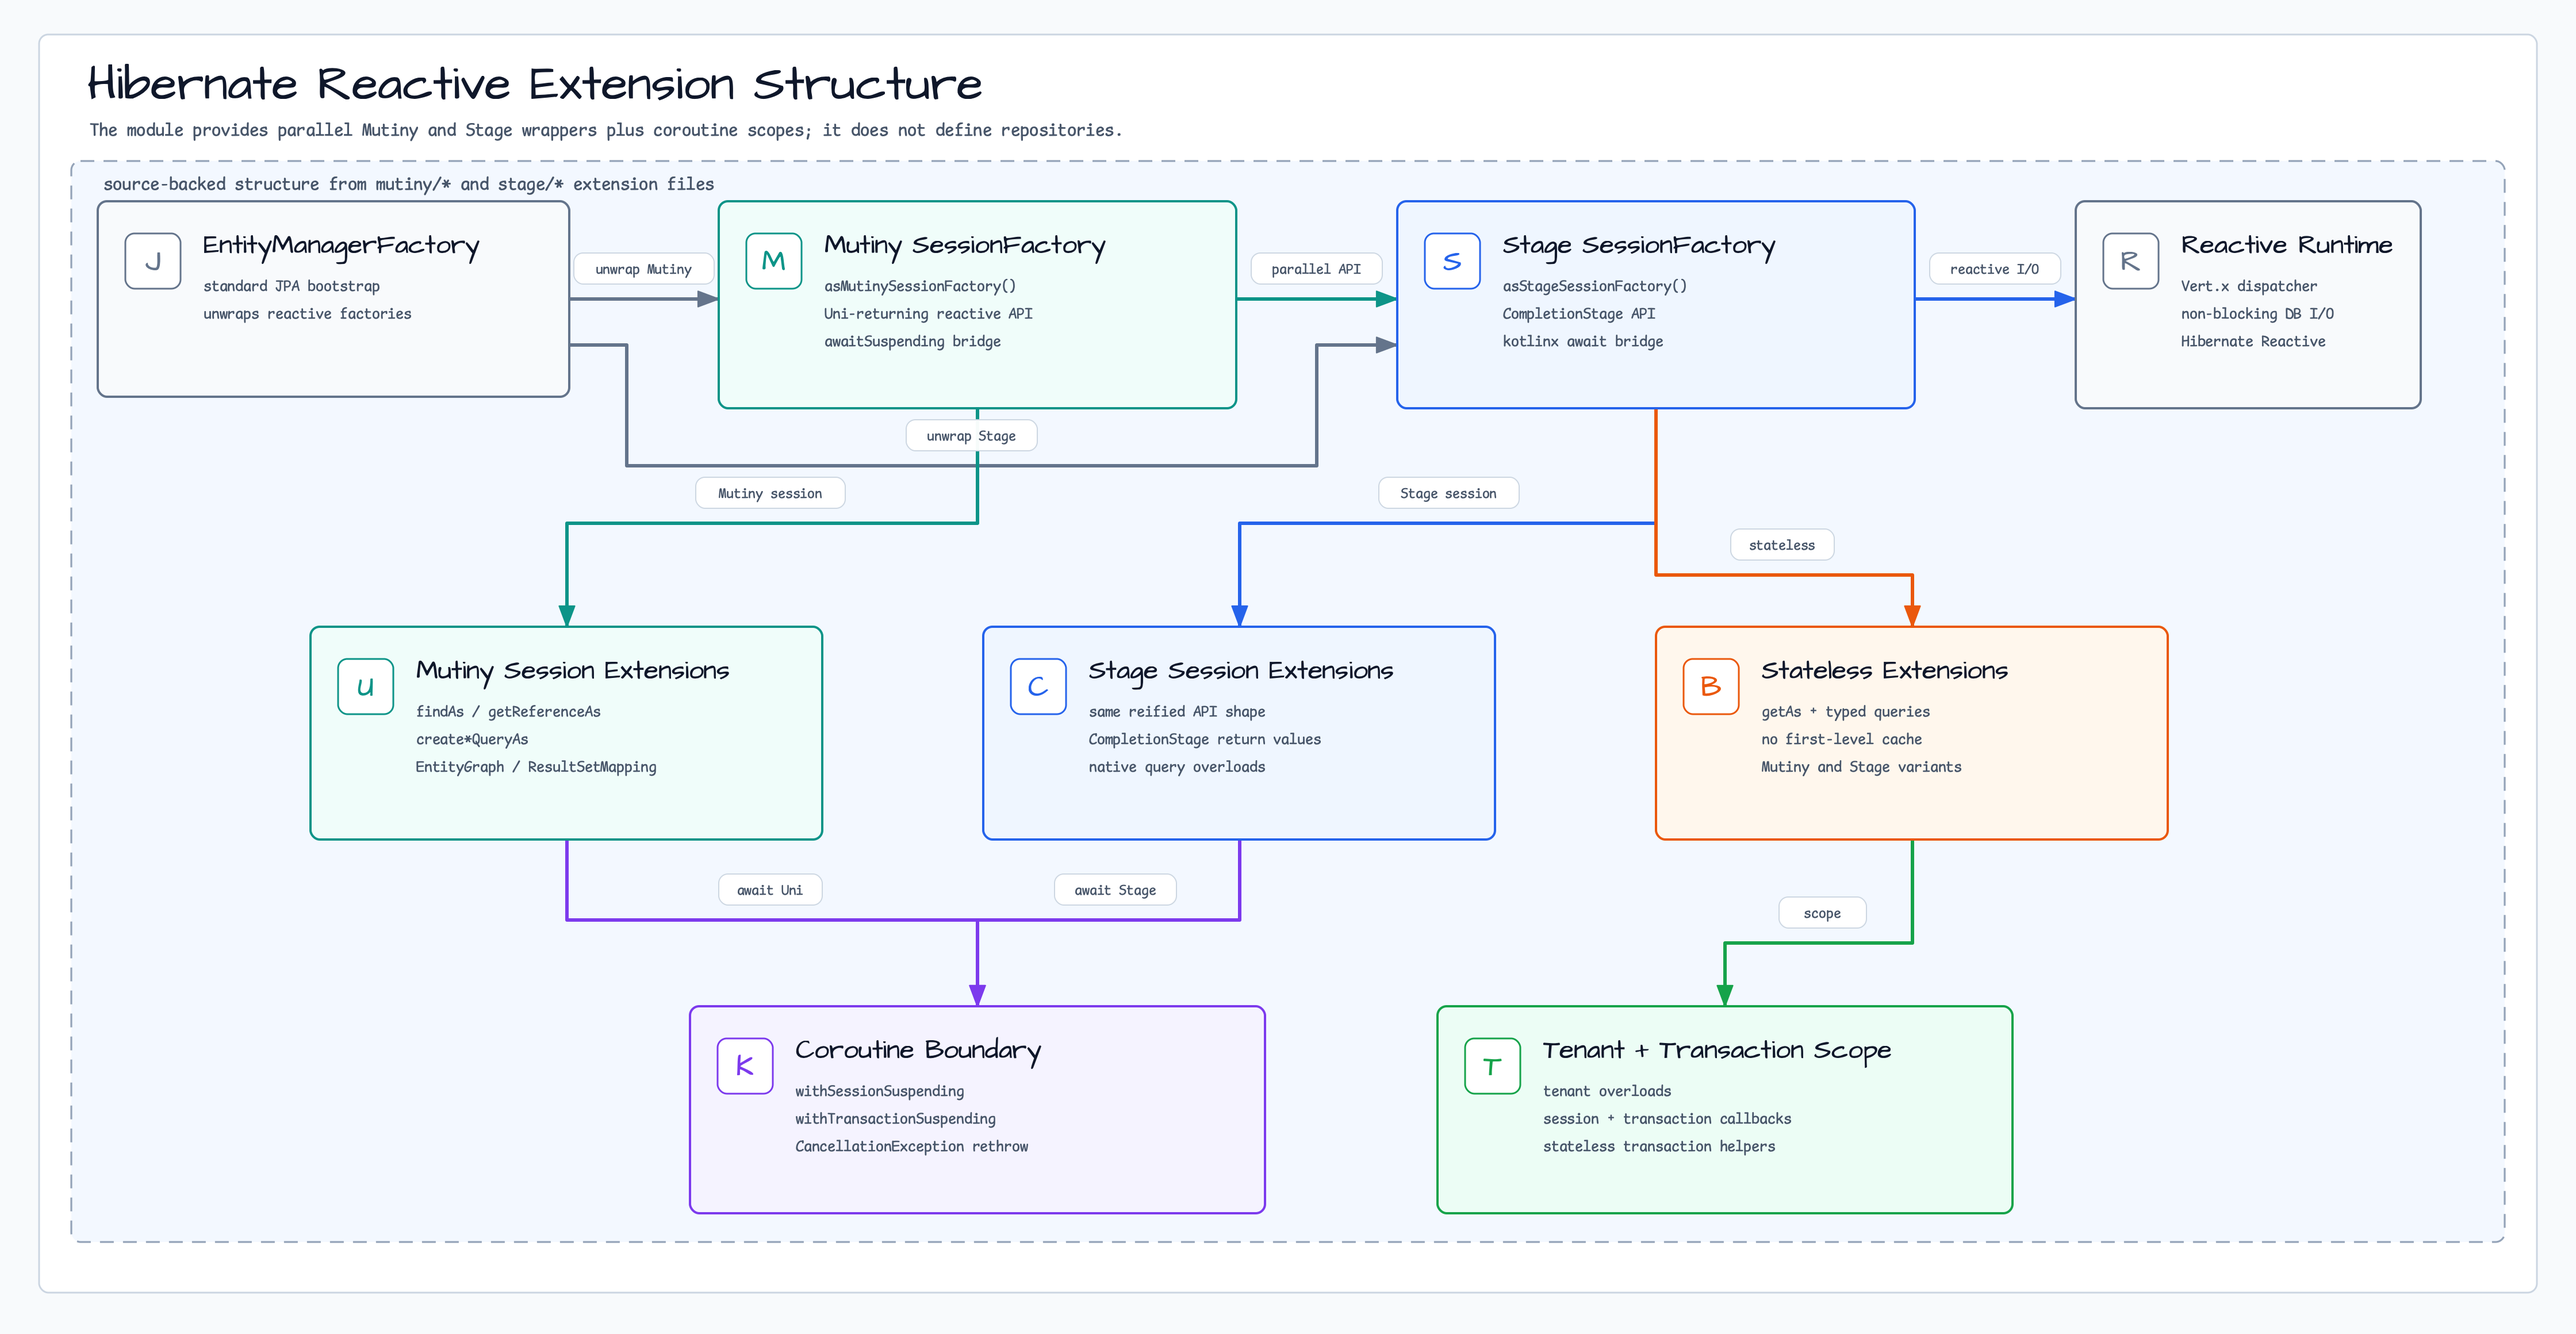
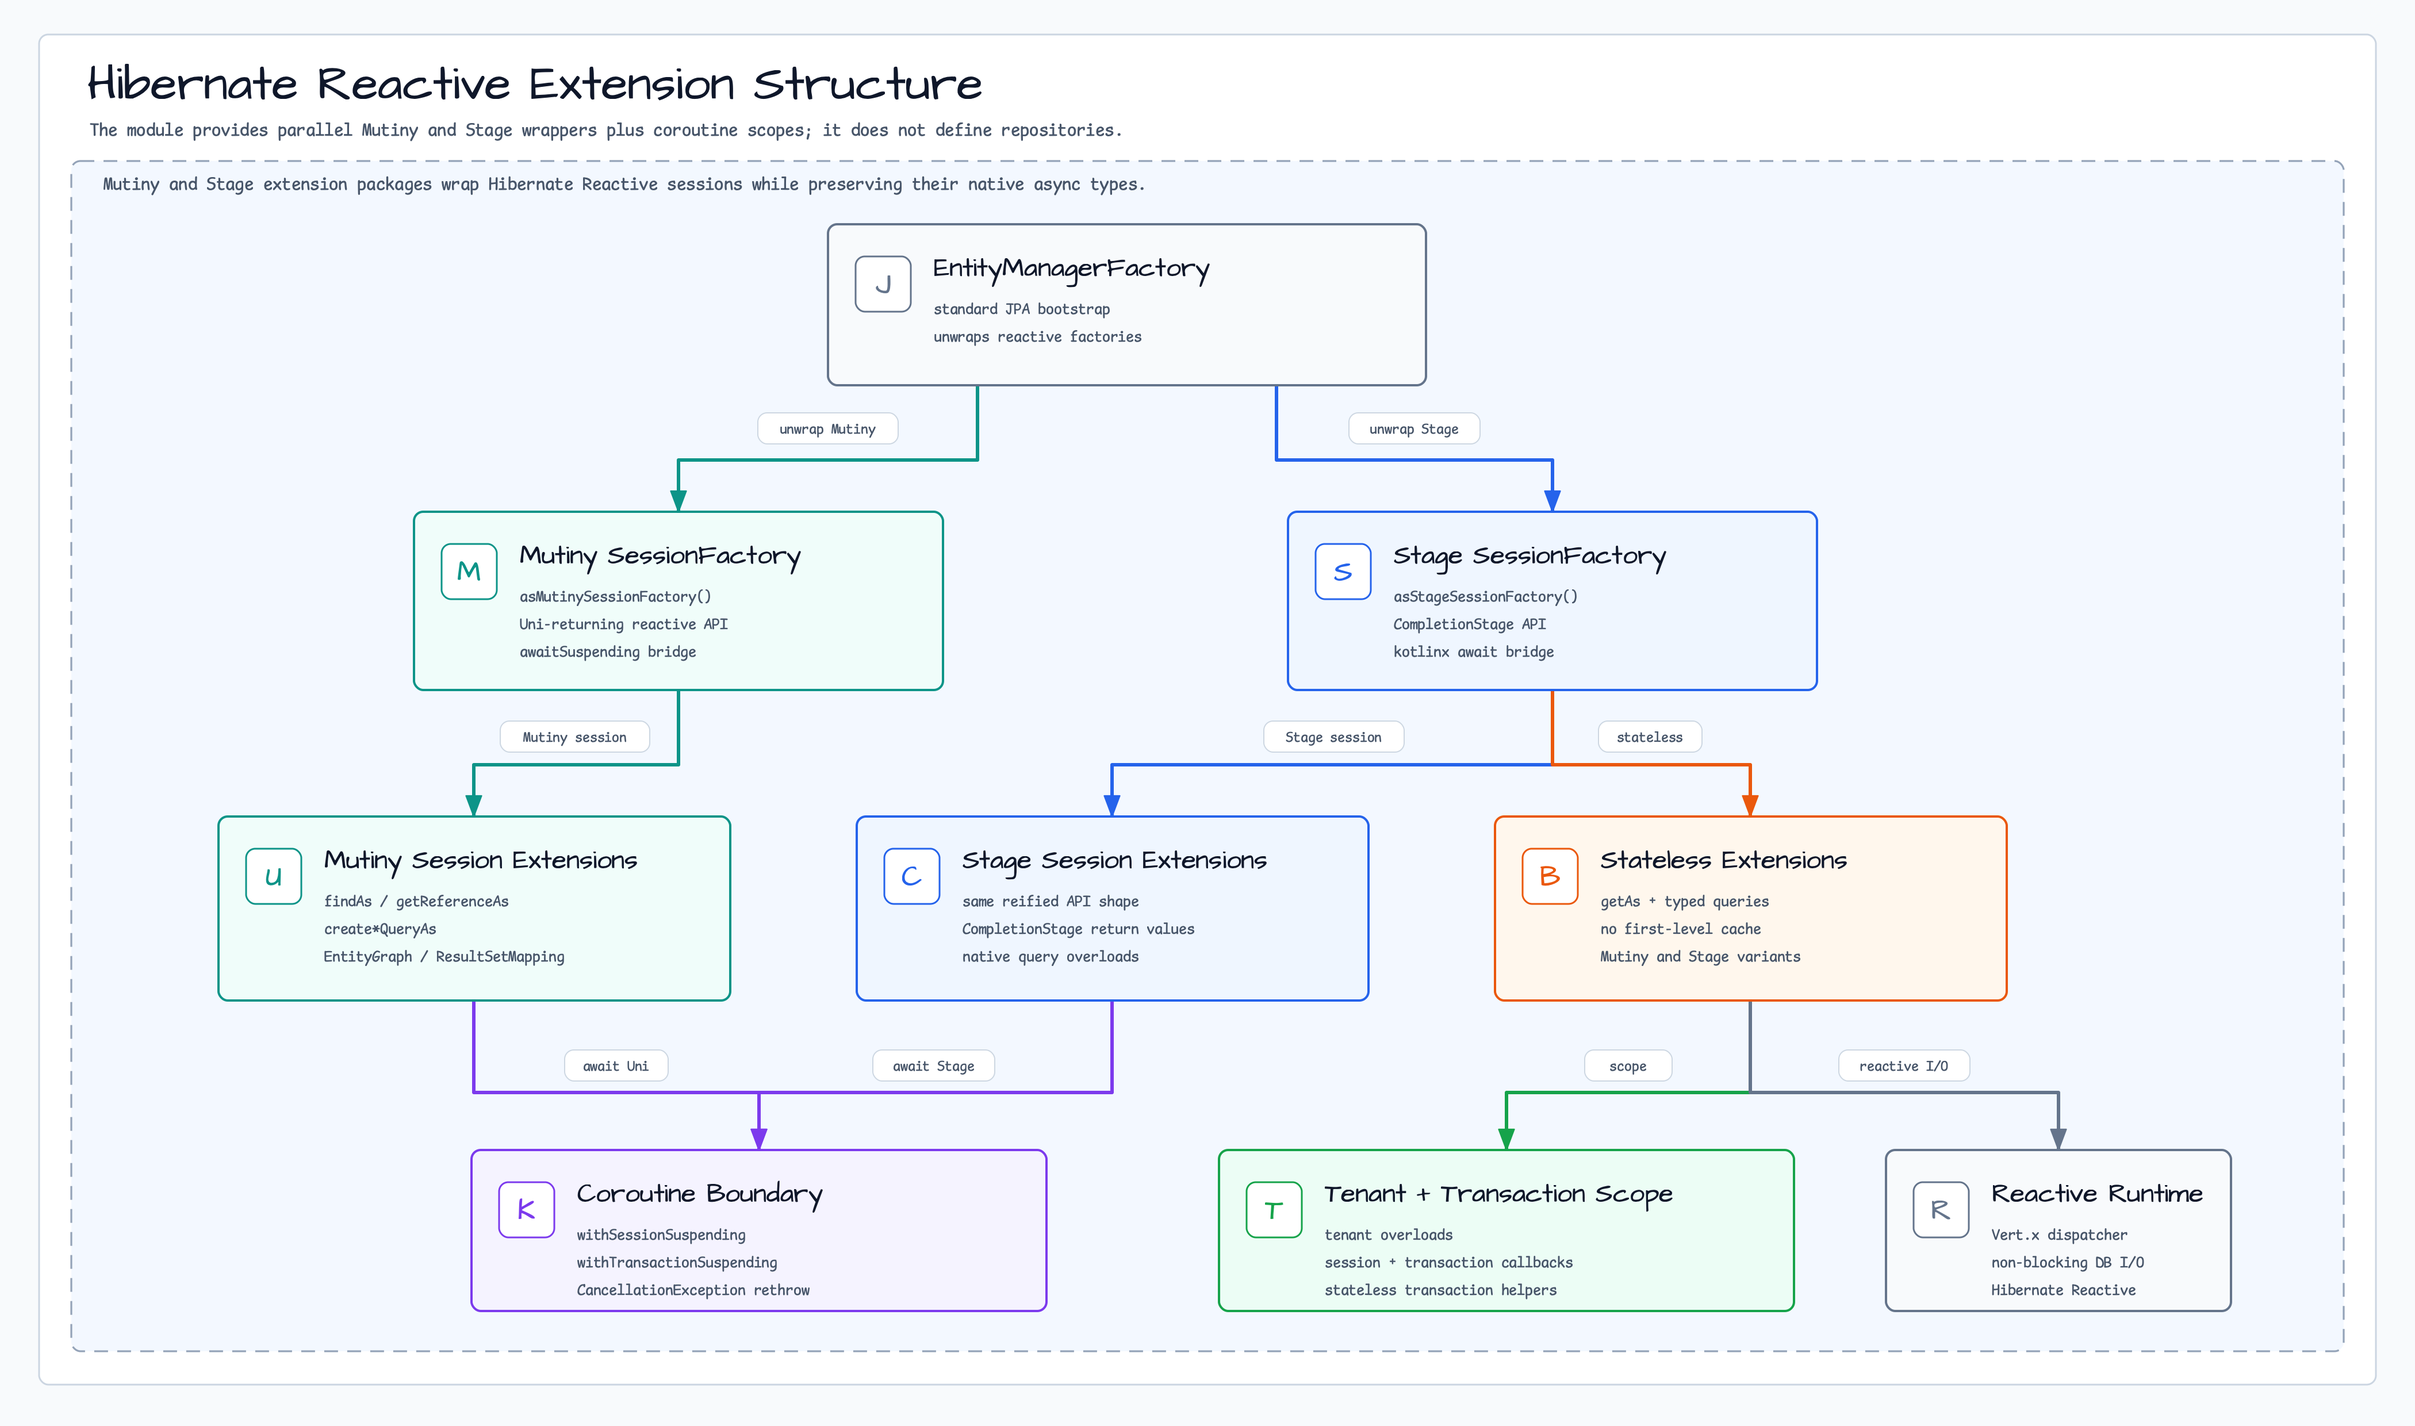
docs: clarify hibernate reactive diagrams
Redraw the Hibernate Reactive extension map around the actual Mutiny and Stage source contracts, and keep the API structure diagram orthogonal so the shared facade and coroutine helpers are readable.

Constraint: README diagrams must follow the bluetape4k diagram contract with Fireworks styling, bluetape4k fonts, source-backed labels, and no Graphviz.

Rejected: keep the previous left-to-right and diagonal routing | it left excess card whitespace and made relationships harder to scan.

Confidence: high

Scope-risk: narrow

Directive: Re-render these assets through their one-diagram scripts and inspect PNGs before future layout edits.

Tested: node scripts/generate-data-hibernate-reactive-diagram-01.mjs; node scripts/generate-data-hibernate-reactive-diagram-02.mjs; SVG XML parse; forbidden text and README image-link checks; section margin and orthogonal spot-checks; PNG visual inspection; git diff --check.

Not-tested: Gradle build; documentation-only visual update.

diff --git a/data/hibernate-reactive/README.ko.md b/data/hibernate-reactive/README.ko.md
@@ -120,15 +120,15 @@ sf.withSessionSuspending { session ->
 ## 버전 요구사항
 
 **Hibernate Reactive 4.3.3.Final** 필수 환경:
-- Hibernate ORM 7.3.2.Final (ORM 7.2.x 대상)
-- Jakarta Persistence 3.0 namespace in `persistence.xml`
+- Hibernate ORM 7.3.2.Final (ORM 7.2.x에서 업데이트됨)
+- `persistence.xml`의 Jakarta Persistence 3.0 namespace
 - Java 11+ / Kotlin 1.5+
 
 ### JPA 영속성 설정 업데이트
 
 Hibernate Reactive 2.x에서 3.x로 업그레이드 시:
 
-1. **namespace 변경** in `src/main/resources/META-INF/persistence.xml`:
+1. `src/main/resources/META-INF/persistence.xml`의 **namespace 변경**:
    ```xml
    <!-- 기존 (JPA 2.0) -->
    <persistence xmlns="http://java.sun.com/xml/ns/persistence" version="2.0">
@@ -147,7 +147,7 @@ Hibernate Reactive 2.x에서 3.x로 업그레이드 시:
    <class>io.bluetape4k.example.Book</class>
    ```
 
-3. **Validator 설정** Jakarta EL 구현체(GlassFish Expressly 6.0.0) 필요
+3. **Validator 설정**에는 Jakarta EL 구현체(GlassFish Expressly 6.0.0)가 필요합니다.
 
 ## 참고
 
